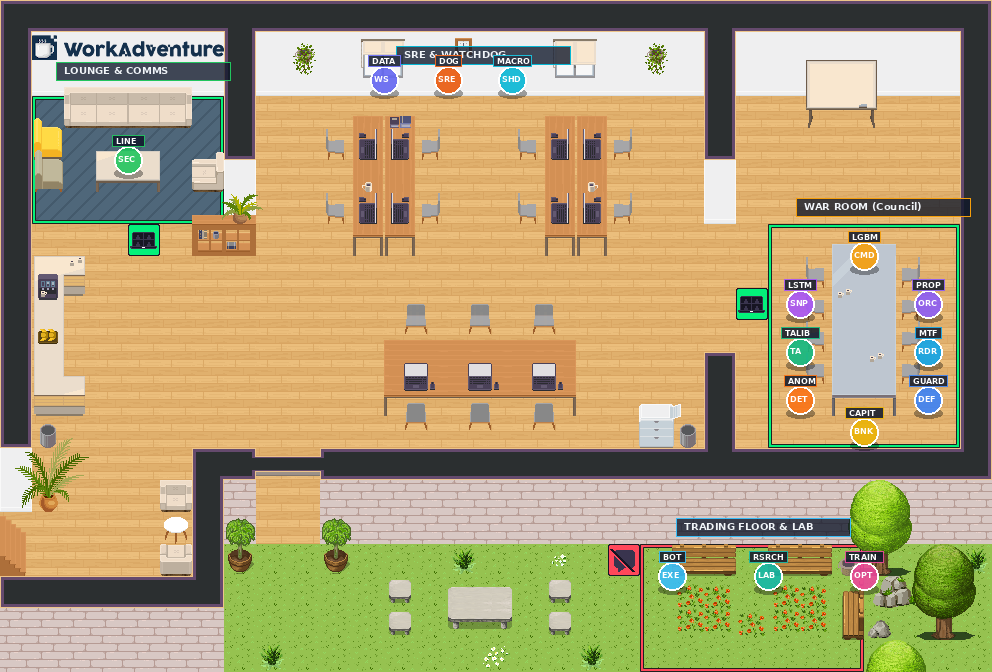
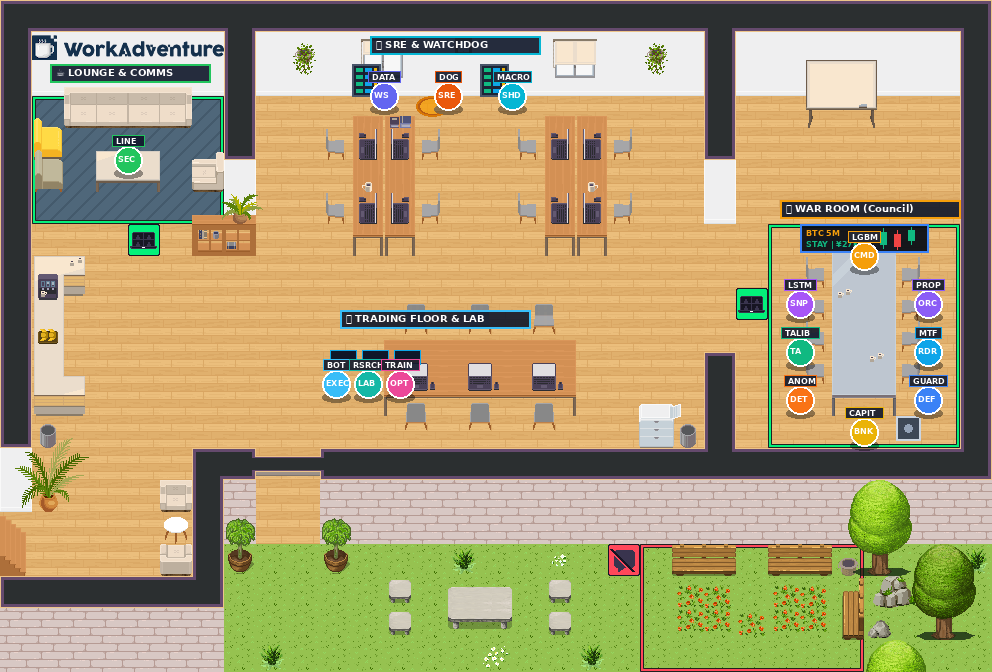
Update office.png preview with new central trading desk and BTC war room screen, and update README

diff --git a/README.md b/README.md
@@ -1,208 +1,50 @@
-# 🗺 WorkAdventure Map Starter Kit
+# 🏛 BTC AI Quant Virtual Office (WorkAdventure)
 
-<a href="https://discord.gg/G6Xh9ZM9aR" target="blank"><img src="https://img.shields.io/discord/821338762134290432.svg?style=flat&label=Join%20Community&color=7289DA" alt="Join Community Badge"/></a>
-<a href="https://x.com/workadventure_" target="blank"><img src="https://img.shields.io/twitter/follow/workadventure_.svg?style=social" /></a>
-![visitors](https://vbr.nathanchung.dev/badge?page_id=workadventure.map-starter-kit&color=00cf00)
+BTC 5分足スキャルピング自律AIシステム群が働く、オープンソース2Dバーチャルオフィス（WorkAdventure）です。
 
-![office map thumbnail](./office.png)
+![BTC AI Office Map](./office.png)
 
-🗺 This is a starter kit to help you build your own map for [WorkAdventure](https://workadventu.re).
+👉 **[WorkAdventureでオフィスに入室する](https://play.workadventu.re/_/global/hayato555913-netizen.github.io/btc-quant-office/map.json)**
 
-📚 To understand how to use this starter kit, follow [our tutorial](https://docs.workadventu.re/map-building/tiled-editor/).
+---
 
-👨🏻🔧 If you have any questions, feel free to ask in the [WorkAdventure office](https://play.staging.workadventu.re/@/tcm/workadventure/wa-village).
-
-## 🚀 Upload your map
-
-In the `.env` file, you can set your upload strategy to `MAP_STORAGE` (default) or `GH_PAGES`. Simply comment out the option you don't want to use.
-
-Uploading a map using the [WA map storage](https://docs.workadventu.re/map-building/tiled-editor/publish/wa-hosted) will host your project on WA servers.
-
-Uploading a map using [GitHub Pages](https://docs.github.com/pages) will host your project on GitHub servers. It's a bit more difficult to set up, and can only be used with public repositories (or with private repositories if you have a Github active subscription).
-
-## 🗂 Project Structure
+## 🏢 オフィスフロアマップ ＆ 全15体のAIエージェント
 
 ```
-map-starter-kit/
-├── 📁 app/                    # Server entry point (loads @workadventure/map-starter-kit-core)
-│   └── app.ts                 # Re-exports the Express app from the core package
-│
-├── 📁 src/                    # Map scripts (Browser/WorkAdventure) ⚠ REQUIRED
-│   └── main.ts                # Your map scripts go here
-│
-│
-├── 📁 tilesets/               # Map tileset images (PNG)
-│
-├── 📄 *.tmj                   # Map files (office.tmj, conference.tmj, etc.)
-├── 📄 vite.config.ts          # Vite configuration
-└── 📄 package.json            # Dependencies and scripts
+┌─────────────────────────────────────────────────────────────┐
+│ ☕ LOUNGE & COMMS (左上)     │ 🛡 SRE & WATCHDOG (中央上)   │
+│  📱 LINE Bot (秘書・通信兵)   │  🐕 AI Watchdog (死活監視犬) │
+│                               │  ⚡ Macro Shield (経済防衛)  │
+│                               │  📡 Data Fetcher (データ兵)  │
+├──────────────────────────────┴──────────────────────────────┤
+│                              │ 🏛 WAR ROOM (右上・会議室)   │
+│                              │  ⚖ LightGBM (統合最高司令官) │
+│                              │  ⚡ LSTM (波形スナイパー🏆)   │
+│                              │  🔮 Prophet (時空予言者)     │
+│                              │  📊 TA-Lib (テクニカル分析官)│
+│                              │  🌐 MTF (上位足レーダー)     │
+│                              │  🕵♂ アノマリー (特異点捜査官) │
+│                              │  🛡 アーマー (危機管理隊長)  │
+│                              │  💰 キャピタル (資金統括官)   │
+├──────────────────────────────┼──────────────────────────────┤
+│ 💼 TRADING FLOOR & LAB (中央)│ 🌿 REFRESH GARDEN (右下)    │
+│  🤖 BTC Scalp Bot (執行)     │  休憩ベンチ・花壇テラス     │
+│  📈 Quant Researcher (研究員)│                             │
+│  🔄 Auto Retrain (再学習炉)  │                             │
+└──────────────────────────────┴──────────────────────────────┘
 ```
 
-The **server** (Express app, controllers, HTML publishing pages, static assets) is provided by the npm package **`@workadventure/map-starter-kit-core`**. Updating this dependency gives you new publishing UI and server features without changing your maps or config.
+### 🎮 オフィスのギミック
+- **🏛 会議テーブル（WAR ROOM）**:
+  - スペースキーを押すと、画面右半分にリアルタイムのBTCダッシュボード（50%幅）がスライドイン！
+  - 壁には **超大型BTCメインチャートスクリーン（ローソク足チャート＋STAY判定＋¥27K 表示）** を設置。
+- **🐕 SRE & 監視室**:
+  - サーバーラックと犬用ベッドを完備。Watchdogに近づいて「頭をなでる」と喜びます。
+- **💼 トレード執行フロア**:
+  - 中央デスクにマルチモニターを並べ、Scalp Bot・Researcher・Retrain がリアルタイム監視中。
 
-### Quick Reference
+---
 
-- *`src/`*: **Map scripts** (MUST be here for compilation) ⚠
-- *`tilesets/`*: All PNG tilesets
-- *`app/`*: **Server entry point** – loads the core package; do not add server logic here
-
-> [!TIP]
-> - If you want to use more than one map file, just add the new map file in the root folder (we recommend creating a copy of *office.tmj* and editing it to avoid any mistakes).
-> - We recommend using **512x512** images for the map thumbnails.
-> - If you are going to create custom websites to embed in the map, please reference the HTML files in the `input` option in *buildmap.vite.config.js*.
-
-### 📁 Server entry point (`app/`)
-
-The `app/` directory contains only the **entry point** that loads the server from **`@workadventure/map-starter-kit-core`**.
-
-- *`app.ts`*: Imports and re-exports the Express app from the core package (for Vite’s server plugin).
-
-The actual server (Express, routes, HTML pages, upload, map storage) lives in the dependency. To get updates to the publishing UI and server behaviour, run `npm update @workadventure/map-starter-kit-core`.
-
-> [!IMPORTANT]
-> Do **not** add server logic or new controllers in `app/`. The server is fully provided by the core package.
-
-### 📁 Map Scripts Development (`src/`) ⚠
-
-The `src/` directory is where you **MUST** place **all map-related scripts** that will be executed in the browser. See [src/README.md](./src/README.md) for detailed documentation and examples.
-
-- *`main.ts`*: Main map script (referenced in `.tmj` files)
-
-> [!IMPORTANT]
-> **All map scripts MUST be placed in the `src/` directory** to be properly compiled and bundled by Vite. Scripts in this directory are:
-> - Automatically transformed from TypeScript to JavaScript
-> - Bundled with their npm dependencies (like `@workadventure/scripting-api-extra`)
-> - Served with the correct MIME types
-> - Referenced in your `.tmj` map files using paths like `src/main.ts`
-
-> [!WARNING]
-> Do not place map scripts outside the `src/` directory. They will not be compiled correctly and will cause errors in the browser.
-
-## 📜 Requirements
-
-- Node.js version >= 18
-
-## 🛠 Installation and Testing
-
-### Prerequisites
-
-- **Node.js** version >= 18 ([Download Node.js](https://nodejs.org/en/))
-- **npm** (comes with Node.js)
-
-### 📦 Installation
-
-1. Clone or download this repository
-2. Navigate to the project root directory
-3. Install dependencies:
-
-```bash
-npm install
-```
-
-This will install all required dependencies, including Vite, TypeScript, WorkAdventure packages, and **`@workadventure/map-starter-kit-core`** (server and publishing UI).
-
-### 🚀 Development
-
-#### Start Development Server
-
-Start the Vite development server with hot module replacement:
-
-```bash
-npm run dev
-```
-
-This will:
-- Start the Vite dev server (usually on `http://localhost:5173`)
-- Enable hot module replacement for instant updates
-- Automatically transform TypeScript files in `src/`
-- Serve your maps and assets
-
-> [!TIP]
-> The development server will automatically open your browser. If not, navigate to the URL shown in the terminal.
-
-#### Test Production Build
-
-To test how your map will behave in production:
-
-```bash
-# Build the optimized production version for your map
-npm run buildmap
-
-# Serve the generated dist/ directory with CORS headers
-npm run preview
-
-```
-
-This will:
-- Compile TypeScript to JavaScript
-- Optimize and bundle all assets
-- Create a production-ready `dist/` folder
-- Start a preview server to test the optimized build
-
-### 📤 Upload Your Map
-
-#### Upload to WA Map Storage
-
-To upload your map to the WorkAdventure Map Storage:
-
-```bash
-npm run upload
-```
-
-This command will:
-1. Build your map (`npm run buildmap`)
-2. Upload it to the configured WA Map Storage
-
-> [!IMPORTANT]
-> Before uploading, you need to configure your upload settings. The upload feature requires three environment variables:
-
-1. **`MAP_STORAGE_URL`** - Your WorkAdventure Map Storage URL
-   - *Local development*: Created in `.env` by the upload command
-   - *CI/CD*: Add as a GitHub secret (optional)
-
-2. **`MAP_STORAGE_API_KEY`** - Your API key for authentication
-   - *Local development*: Created in `.env.secret` by the upload command
-   - *CI/CD*: Add as a GitHub secret (required)
-
-3. **`UPLOAD_DIRECTORY`** - Directory path on the storage server
-   - *Local development*: Created in `.env` by the upload command
-   - *CI/CD*: Add as a GitHub secret (optional)
-
-#### Configure Upload Settings
-
-You can configure these settings through the web interface:
-1. Start the development server (`npm run dev`)
-2. Navigate to the upload configuration page
-3. Fill in your Map Storage credentials
-4. Save and upload your map
-
-For more details, read [the WorkAdventure upload documentation](https://docs.workadventu.re/map-building/tiled-editor/publish/wa-hosted).
-
-### 📋 Available Scripts
-
-| Command | Description |
-|---------|-------------|
-| `npm run dev` | Start Vite development server with hot reload |
-| `npm run buildmap` | Build only the map files (without frontend) |
-| `npm run preview` | Serve the generated `dist/` directory with CORS headers after `npm run buildmap` |
-| `npm run upload` | Build and upload map to WA Map Storage |
-| `npm run upload-only` | Upload map without rebuilding (requires existing build) |
-
-## 📜 Licenses
-
-This project contains multiple licenses as follows:
-
-* [Code license](./LICENSE.code) *(all files except those for other licenses)*
-* [Map license](./LICENSE.map) *(`office.tmj` and the map visual as well)*
-* [Assets license](./LICENSE.assets) *(the files inside the `tilesets/` folder)*
-
-> [!IMPORTANT]
-> If you add third party assets in your map, do not forget to:
-> 1. Credit the author and license of a tileset with the "tilesetCopyright" property by etiding the tileset in Tiled.
-> 2. Add the tileset license text in *LICENSE.assets*.
-> 3. Credit the author and license of a map with the "mapCopyright" property in the custom properties of the map.
-> 4. Add the map license text in *LICENSE.map*.
-
-## ❓ Need Help
-
-If you have any questions or need further assistance, don't hesitate to ask either by [email](mailto:hello@workadventu.re) or [Discord](https://discord.gg/G6Xh9ZM9aR)!
+## 🚀 プレイ方法
+ブラウザで以下のURLを開くだけで、ログインしてマルチプレイ可能です：
+https://play.workadventu.re/_/global/hayato555913-netizen.github.io/btc-quant-office/map.json
